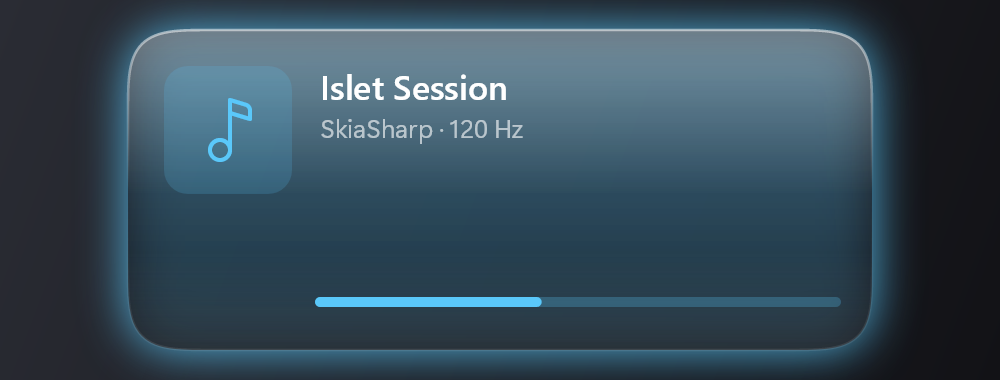
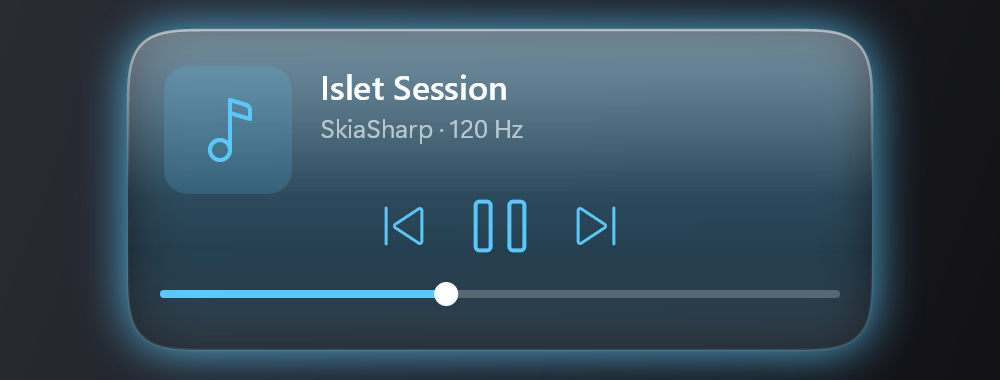
Add media transport controls to the expanded view
Play/pause, previous/next, and a seekable progress bar wired to the System Media
Transport Controls (TrySkip*/TryChangePlaybackPosition). Clicks on the island are
hit-tested against per-control zones; the bar seeks to the clicked position.

diff --git a/src/Islet/Rendering/ContentRenderer.cs b/src/Islet/Rendering/ContentRenderer.cs
@@ -13,12 +13,12 @@ internal static class ContentRenderer
         var layer = m.Current;
         // Fade/scale the outgoing content out first (blur + scale-down + fade).
         if (m.Outgoing is { } outg && outg.Alpha > 0.01f)
-            DrawLayer(canvas, m, bounds, outg);
+            DrawLayer(canvas, m, bounds, outg, interactive: false);
         if (layer is { } cur && cur.Alpha > 0.01f)
-            DrawLayer(canvas, m, bounds, cur);
+            DrawLayer(canvas, m, bounds, cur, interactive: true);
     }
 
-    private static void DrawLayer(SKCanvas canvas, RenderModel m, SKRect bounds, ContentLayer layer)
+    private static void DrawLayer(SKCanvas canvas, RenderModel m, SKRect bounds, ContentLayer layer, bool interactive)
     {
         int save = canvas.Save();
         // Scale transforms content about the island center for the blur/scale transition.
@@ -30,8 +30,8 @@ internal static class ContentRenderer
         {
             case IslandMode.Compact: DrawCompact(canvas, m, bounds, snap, a); break;
             case IslandMode.Minimal: DrawMinimal(canvas, m, bounds, snap, a); break;
-            case IslandMode.Expanded: DrawExpanded(canvas, m, bounds, snap, a); break;
-            case IslandMode.Alert: DrawExpanded(canvas, m, bounds, snap, a); break;
+            case IslandMode.Expanded: DrawExpanded(canvas, m, bounds, snap, a, interactive); break;
+            case IslandMode.Alert: DrawExpanded(canvas, m, bounds, snap, a, false); break;
             default: break; // Idle: empty
         }
         canvas.RestoreToCount(save);
@@ -101,7 +101,7 @@ internal static class ContentRenderer
         c.DrawPath(path, arc);
     }
 
-    private static void DrawExpanded(SKCanvas c, RenderModel m, SKRect b, ActivitySnapshot s, byte a)
+    private static void DrawExpanded(SKCanvas c, RenderModel m, SKRect b, ActivitySnapshot s, byte a, bool interactive)
     {
         float sc = m.Scale;
         float pad = 18 * sc;
@@ -127,6 +127,12 @@ internal static class ContentRenderer
         if (!string.IsNullOrEmpty(s.Subtitle))
             DrawText(c, s.Subtitle, tx, b.Top + pad + titleSize + subSize + 6 * sc, subSize, dim);
 
+        if (s.ShowTransport)
+        {
+            DrawTransport(c, m, b, s, a, sc, accent, white, interactive);
+            return;
+        }
+
         if (s.Visual == VisualKind.Bar && s.Progress is double p)
         {
             float barY = b.Bottom - pad - 6 * sc;
@@ -135,6 +141,41 @@ internal static class ContentRenderer
         else if (s.Visual == VisualKind.Equalizer && s.Levels is { Length: > 0 })
         {
             DrawEqualizer(c, s.Levels, new SKRect(tx, b.Bottom - pad - 22 * sc, b.Right - pad, b.Bottom - pad), accent);
+        }
+    }
+
+    private static void DrawTransport(SKCanvas c, RenderModel m, SKRect b, ActivitySnapshot s, byte a, float sc, SKColor accent, SKColor white, bool interactive)
+    {
+        float pad = 18 * sc;
+        float cx = b.MidX;
+        float by = b.Bottom - pad - 10 * sc;   // seek bar
+        float ty = by - 34 * sc;               // transport row center
+        float gap = 48 * sc;
+
+        var prevCol = s.CanPrevious ? accent : accent.WithAlpha((byte)(a * 0.28f));
+        var nextCol = s.CanNext ? accent : accent.WithAlpha((byte)(a * 0.28f));
+        DrawGlyph(c, Glyphs.Previous, cx - gap, ty, 22 * sc, prevCol);
+        DrawGlyph(c, s.IsPlaying ? Glyphs.Pause : Glyphs.Play, cx, ty, 30 * sc, accent);
+        DrawGlyph(c, Glyphs.Next, cx + gap, ty, 22 * sc, nextCol);
+
+        float x0 = b.Left + pad, x1 = b.Right - pad;
+        float frac = IslandRenderer.Clamp01((float)(s.Progress ?? 0));
+        float xk = x0 + (x1 - x0) * frac;
+        using (var track = new SKPaint { IsAntialias = true, Style = SKPaintStyle.Stroke, StrokeWidth = 4 * sc, StrokeCap = SKStrokeCap.Round, Color = white.WithAlpha((byte)(a * 0.22f)) })
+            c.DrawLine(x0, by, x1, by, track);
+        if (xk > x0 + 0.5f)
+            using (var fill = new SKPaint { IsAntialias = true, Style = SKPaintStyle.Stroke, StrokeWidth = 4 * sc, StrokeCap = SKStrokeCap.Round, Color = accent })
+                c.DrawLine(x0, by, xk, by, fill);
+        using (var knob = new SKPaint { IsAntialias = true, Color = white })
+            c.DrawCircle(xk, by, 6 * sc, knob);
+
+        if (interactive)
+        {
+            float r = 22 * sc;
+            m.HitZones.Add(new HitZone(cx - gap - r, ty - r, cx - gap + r, ty + r, "media.prev"));
+            m.HitZones.Add(new HitZone(cx - r, ty - r, cx + r, ty + r, "media.playpause"));
+            m.HitZones.Add(new HitZone(cx + gap - r, ty - r, cx + gap + r, ty + r, "media.next"));
+            m.HitZones.Add(new HitZone(x0, by - 14 * sc, x1, by + 14 * sc, "media.seek"));
         }
     }
 

diff --git a/src/Islet/Activities/MediaActivity.cs b/src/Islet/Activities/MediaActivity.cs
@@ -28,6 +28,7 @@ internal sealed class MediaActivity : ILiveActivity
     private string _title = "", _artist = "", _source = "";
     private string _attachedId = "";
     private bool _playing;
+    private bool _canNext, _canPrev, _canSeek;
     private double _posSec, _endSec;
     private long _updateTicks;
     private byte[]? _artBgra; private int _artW, _artH;
@@ -136,9 +137,34 @@ internal sealed class MediaActivity : ILiveActivity
 
     private void OnPlayback(SmtcSession s, PlaybackInfoChangedEventArgs e)
     {
-        try { _playing = s.GetPlaybackInfo()?.PlaybackStatus == GlobalSystemMediaTransportControlsSessionPlaybackStatus.Playing; }
+        try
+        {
+            var pi = s.GetPlaybackInfo();
+            _playing = pi?.PlaybackStatus == GlobalSystemMediaTransportControlsSessionPlaybackStatus.Playing;
+            var ctl = pi?.Controls;
+            _canNext = ctl?.IsNextEnabled ?? false;
+            _canPrev = ctl?.IsPreviousEnabled ?? false;
+            _canSeek = ctl?.IsPlaybackPositionEnabled ?? false;
+        }
         catch { }
         Changed?.Invoke();
+    }
+
+    // --- Transport controls (routed from clicks on the expanded view) ---
+    public void TogglePlayPause() { var s = _session; if (s == null) return; try { _ = s.TryTogglePlayPauseAsync(); } catch { } }
+    public void Next() { var s = _session; if (s == null) return; try { _ = s.TrySkipNextAsync(); } catch { } }
+    public void Previous() { var s = _session; if (s == null) return; try { _ = s.TrySkipPreviousAsync(); } catch { } }
+
+    public void SeekFraction(double f)
+    {
+        var s = _session;
+        if (s == null || _endSec <= 0.5) return;
+        try
+        {
+            long ticks = (long)(Math.Clamp(f, 0, 1) * _endSec * 10_000_000.0);
+            _ = s.TryChangePlaybackPositionAsync(ticks);
+        }
+        catch { }
     }
 
     private void OnTimeline(SmtcSession s, TimelinePropertiesChangedEventArgs e)
@@ -233,6 +259,11 @@ internal sealed class MediaActivity : ILiveActivity
             ImageBgra = _artBgra,
             ImageW = _artW,
             ImageH = _artH,
+            ShowTransport = true,
+            IsPlaying = _playing,
+            CanSeek = _canSeek,
+            CanNext = _canNext,
+            CanPrevious = _canPrev,
         };
     }
 }

diff --git a/src/Islet/IslandWindow.cs b/src/Islet/IslandWindow.cs
@@ -1,5 +1,6 @@
 using System;
 using System.Collections.Concurrent;
+using System.Collections.Generic;
 using System.Diagnostics;
 using System.Threading;
 using Islet.Core;
@@ -36,6 +37,7 @@ internal sealed class IslandWindow
     // Last rendered island geometry in surface pixels (for hit-testing).
     private float _hitCx, _hitCy, _hitW, _hitH, _hitR;
     private bool _hovering;
+    private RenderModel? _model;
 
     private const int HOTKEY_ID = 0xA11;
 
@@ -44,6 +46,7 @@ internal sealed class IslandWindow
     public event Action<bool>? HoverChanged;
     public event Action<char>? CharTyped;
     public event Action<int>? KeyPressed; // virtual-key code
+    public event Action<string, float>? MediaCommand; // (zone id, seek fraction)
 
     public IslandWindow(IsletConfig cfg, IslandController ctl)
     {
@@ -170,6 +173,7 @@ internal sealed class IslandWindow
         _hitR = (float)model.Dp.CornerRadius * s;
         _hitCx = _surfW / 2f;
         _hitCy = model.AnchorTopPx + _hitH / 2f;
+        _model = model;
     }
 
     private void PollHover()
@@ -238,8 +242,25 @@ internal sealed class IslandWindow
                 return (IntPtr)(inside ? HTCLIENT : HTTRANSPARENT);
             }
             case WM_LBUTTONUP:
+            {
+                float lx = LoWord(lParam), ly = HiWord(lParam); // client coords == surface pixels
+                var zones = _model?.HitZones;
+                if (zones != null)
+                {
+                    for (int i = zones.Count - 1; i >= 0; i--) // last drawn = topmost
+                    {
+                        var z = zones[i];
+                        if (z.Contains(lx, ly))
+                        {
+                            float frac = z.Id == "media.seek" && z.R > z.L ? (lx - z.L) / (z.R - z.L) : 0f;
+                            MediaCommand?.Invoke(z.Id, frac);
+                            return IntPtr.Zero;
+                        }
+                    }
+                }
                 Clicked?.Invoke();
                 return IntPtr.Zero;
+            }
             case WM_HOTKEY:
                 HotkeyPressed?.Invoke();
                 return IntPtr.Zero;

diff --git a/src/Islet/Activities/ActivityManager.cs b/src/Islet/Activities/ActivityManager.cs
@@ -24,6 +24,7 @@ internal sealed class ActivityManager : IActivityHost
     private Timer? _alertRevert;
 
     public TimerActivity Timer { get; } = new();
+    public MediaActivity Media { get; } = new();
 
     public ActivityManager(IsletConfig cfg, IslandController ctl, IslandWindow win)
     {
@@ -32,7 +33,7 @@ internal sealed class ActivityManager : IActivityHost
 
     public void Start()
     {
-        _activities.Add(new MediaActivity());
+        _activities.Add(Media);
         _activities.Add(new BatteryActivity());
         _activities.Add(new VolumeActivity());
         _activities.Add(new RecordingActivity());
@@ -103,6 +104,18 @@ internal sealed class ActivityManager : IActivityHost
         bool turningOn = !_ctl.AskActive;
         _ctl.SetAsk(turningOn);
         if (!turningOn) Recompute();
+    });
+
+    /// <summary>Route a media transport/seek click from the expanded view to the media activity.</summary>
+    public void OnMediaCommand(string id, float fraction) => _win.Post(() =>
+    {
+        switch (id)
+        {
+            case "media.playpause": Media.TogglePlayPause(); break;
+            case "media.next": Media.Next(); break;
+            case "media.prev": Media.Previous(); break;
+            case "media.seek": Media.SeekFraction(fraction); break;
+        }
     });
 
     // ---- IActivityHost ----

diff --git a/src/Islet/Rendering/RenderModel.cs b/src/Islet/Rendering/RenderModel.cs
@@ -1,3 +1,4 @@
+using System.Collections.Generic;
 using Islet.Core;
 
 namespace Islet.Rendering;
@@ -42,6 +43,15 @@ internal sealed class RenderModel
     // Content transition (old -> new) 0..1
     public ContentLayer? Current;
     public ContentLayer? Outgoing;
+
+    // Interactive hit zones in surface pixels (buttons, seek bar), rebuilt each frame.
+    public List<HitZone> HitZones { get; } = new();
+}
+
+/// <summary>A clickable region in surface-pixel space, identified by <see cref="Id"/>.</summary>
+internal readonly record struct HitZone(float L, float T, float R, float B, string Id)
+{
+    public bool Contains(float x, float y) => x >= L && x <= R && y >= T && y <= B;
 }
 
 /// <summary>A content snapshot plus its animated transition transform (blur/scale/fade).</summary>

diff --git a/src/Islet/RenderProbe.cs b/src/Islet/RenderProbe.cs
@@ -46,7 +46,8 @@ internal static class RenderProbe
             m.Mode = IslandMode.Expanded; m.Dp = cfg.BaseMetrics(IslandMode.Expanded);
             m.GlowArgb = 0xFF5AC8FA;
             m.Current = Layer(new ActivitySnapshot
-            { Title = "Islet Session", Subtitle = "SkiaSharp · 120 Hz", Glyph = Glyphs.Music, Visual = VisualKind.Bar, Progress = 0.42, AccentHex = "#5AC8FA" });
+            { Title = "Islet Session", Subtitle = "SkiaSharp · 120 Hz", Glyph = Glyphs.Music, Visual = VisualKind.Bar, Progress = 0.42, AccentHex = "#5AC8FA",
+              ShowTransport = true, IsPlaying = true, CanSeek = true, CanNext = true, CanPrevious = true });
         });
 
         Render(outDir, "06-ask", cfg, renderer, m =>

diff --git a/src/Islet/Rendering/Glyphs.cs b/src/Islet/Rendering/Glyphs.cs
@@ -10,6 +10,8 @@ internal static class Glyphs
 {
     public static readonly string Play = char.ConvertFromUtf32(0xE768);
     public static readonly string Pause = char.ConvertFromUtf32(0xE769);
+    public static readonly string Previous = char.ConvertFromUtf32(0xE892);
+    public static readonly string Next = char.ConvertFromUtf32(0xE893);
     public static readonly string Music = char.ConvertFromUtf32(0xEC4F);
     public static readonly string Search = char.ConvertFromUtf32(0xE721);
     public static readonly string Microphone = char.ConvertFromUtf32(0xE720);

diff --git a/src/Islet.Core/Activities/ILiveActivity.cs b/src/Islet.Core/Activities/ILiveActivity.cs
@@ -29,6 +29,13 @@ public sealed record ActivitySnapshot
     public byte[]? ImageBgra { get; init; }
     public int ImageW { get; init; }
     public int ImageH { get; init; }
+
+    // Media transport: when true, the expanded view shows prev / play-pause / next and a seekable bar.
+    public bool ShowTransport { get; init; }
+    public bool IsPlaying { get; init; }
+    public bool CanSeek { get; init; }
+    public bool CanNext { get; init; }
+    public bool CanPrevious { get; init; }
 }
 
 /// <summary>Services the host exposes to activities.</summary>

diff --git a/src/Islet/Showcase.cs b/src/Islet/Showcase.cs
@@ -33,6 +33,7 @@ internal static class Showcase
             Glyph = Glyphs.Music, CompactLeading = Glyphs.Music, CompactTrailing = Glyphs.Pause,
             Visual = VisualKind.Bar, Progress = p, AccentHex = "#FF5E3A",
             ImageBgra = art, ImageW = 128, ImageH = 128,
+            ShowTransport = true, IsPlaying = true, CanSeek = true, CanNext = true, CanPrevious = true,
         };
         var battery = new ActivitySnapshot
         {

diff --git a/src/Islet/IsletHost.cs b/src/Islet/IsletHost.cs
@@ -26,6 +26,7 @@ internal sealed class IsletHost
         _win.Clicked += () => _mgr!.OnClick();
         _win.HotkeyPressed += () => _mgr!.ToggleAsk();
         _win.HoverChanged += h => { if (_cfg.Behavior.ExpandOnHover) _mgr!.OnHover(h); };
+        _win.MediaCommand += (id, f) => _mgr!.OnMediaCommand(id, f);
 
         _ask = new AskInput(_cfg, _ctl, _win, _mgr);
         _win.CharTyped += c => _ask!.OnChar(c);

diff --git a/src/Islet/Rendering/IslandRenderer.cs b/src/Islet/Rendering/IslandRenderer.cs
@@ -9,6 +9,7 @@ internal sealed class IslandRenderer
     public void Draw(SKCanvas canvas, RenderModel m)
     {
         canvas.Clear(SKColors.Transparent);
+        m.HitZones.Clear();
 
         float w = (float)m.Dp.Width * m.Scale;
         float h = (float)m.Dp.Height * m.Scale;
